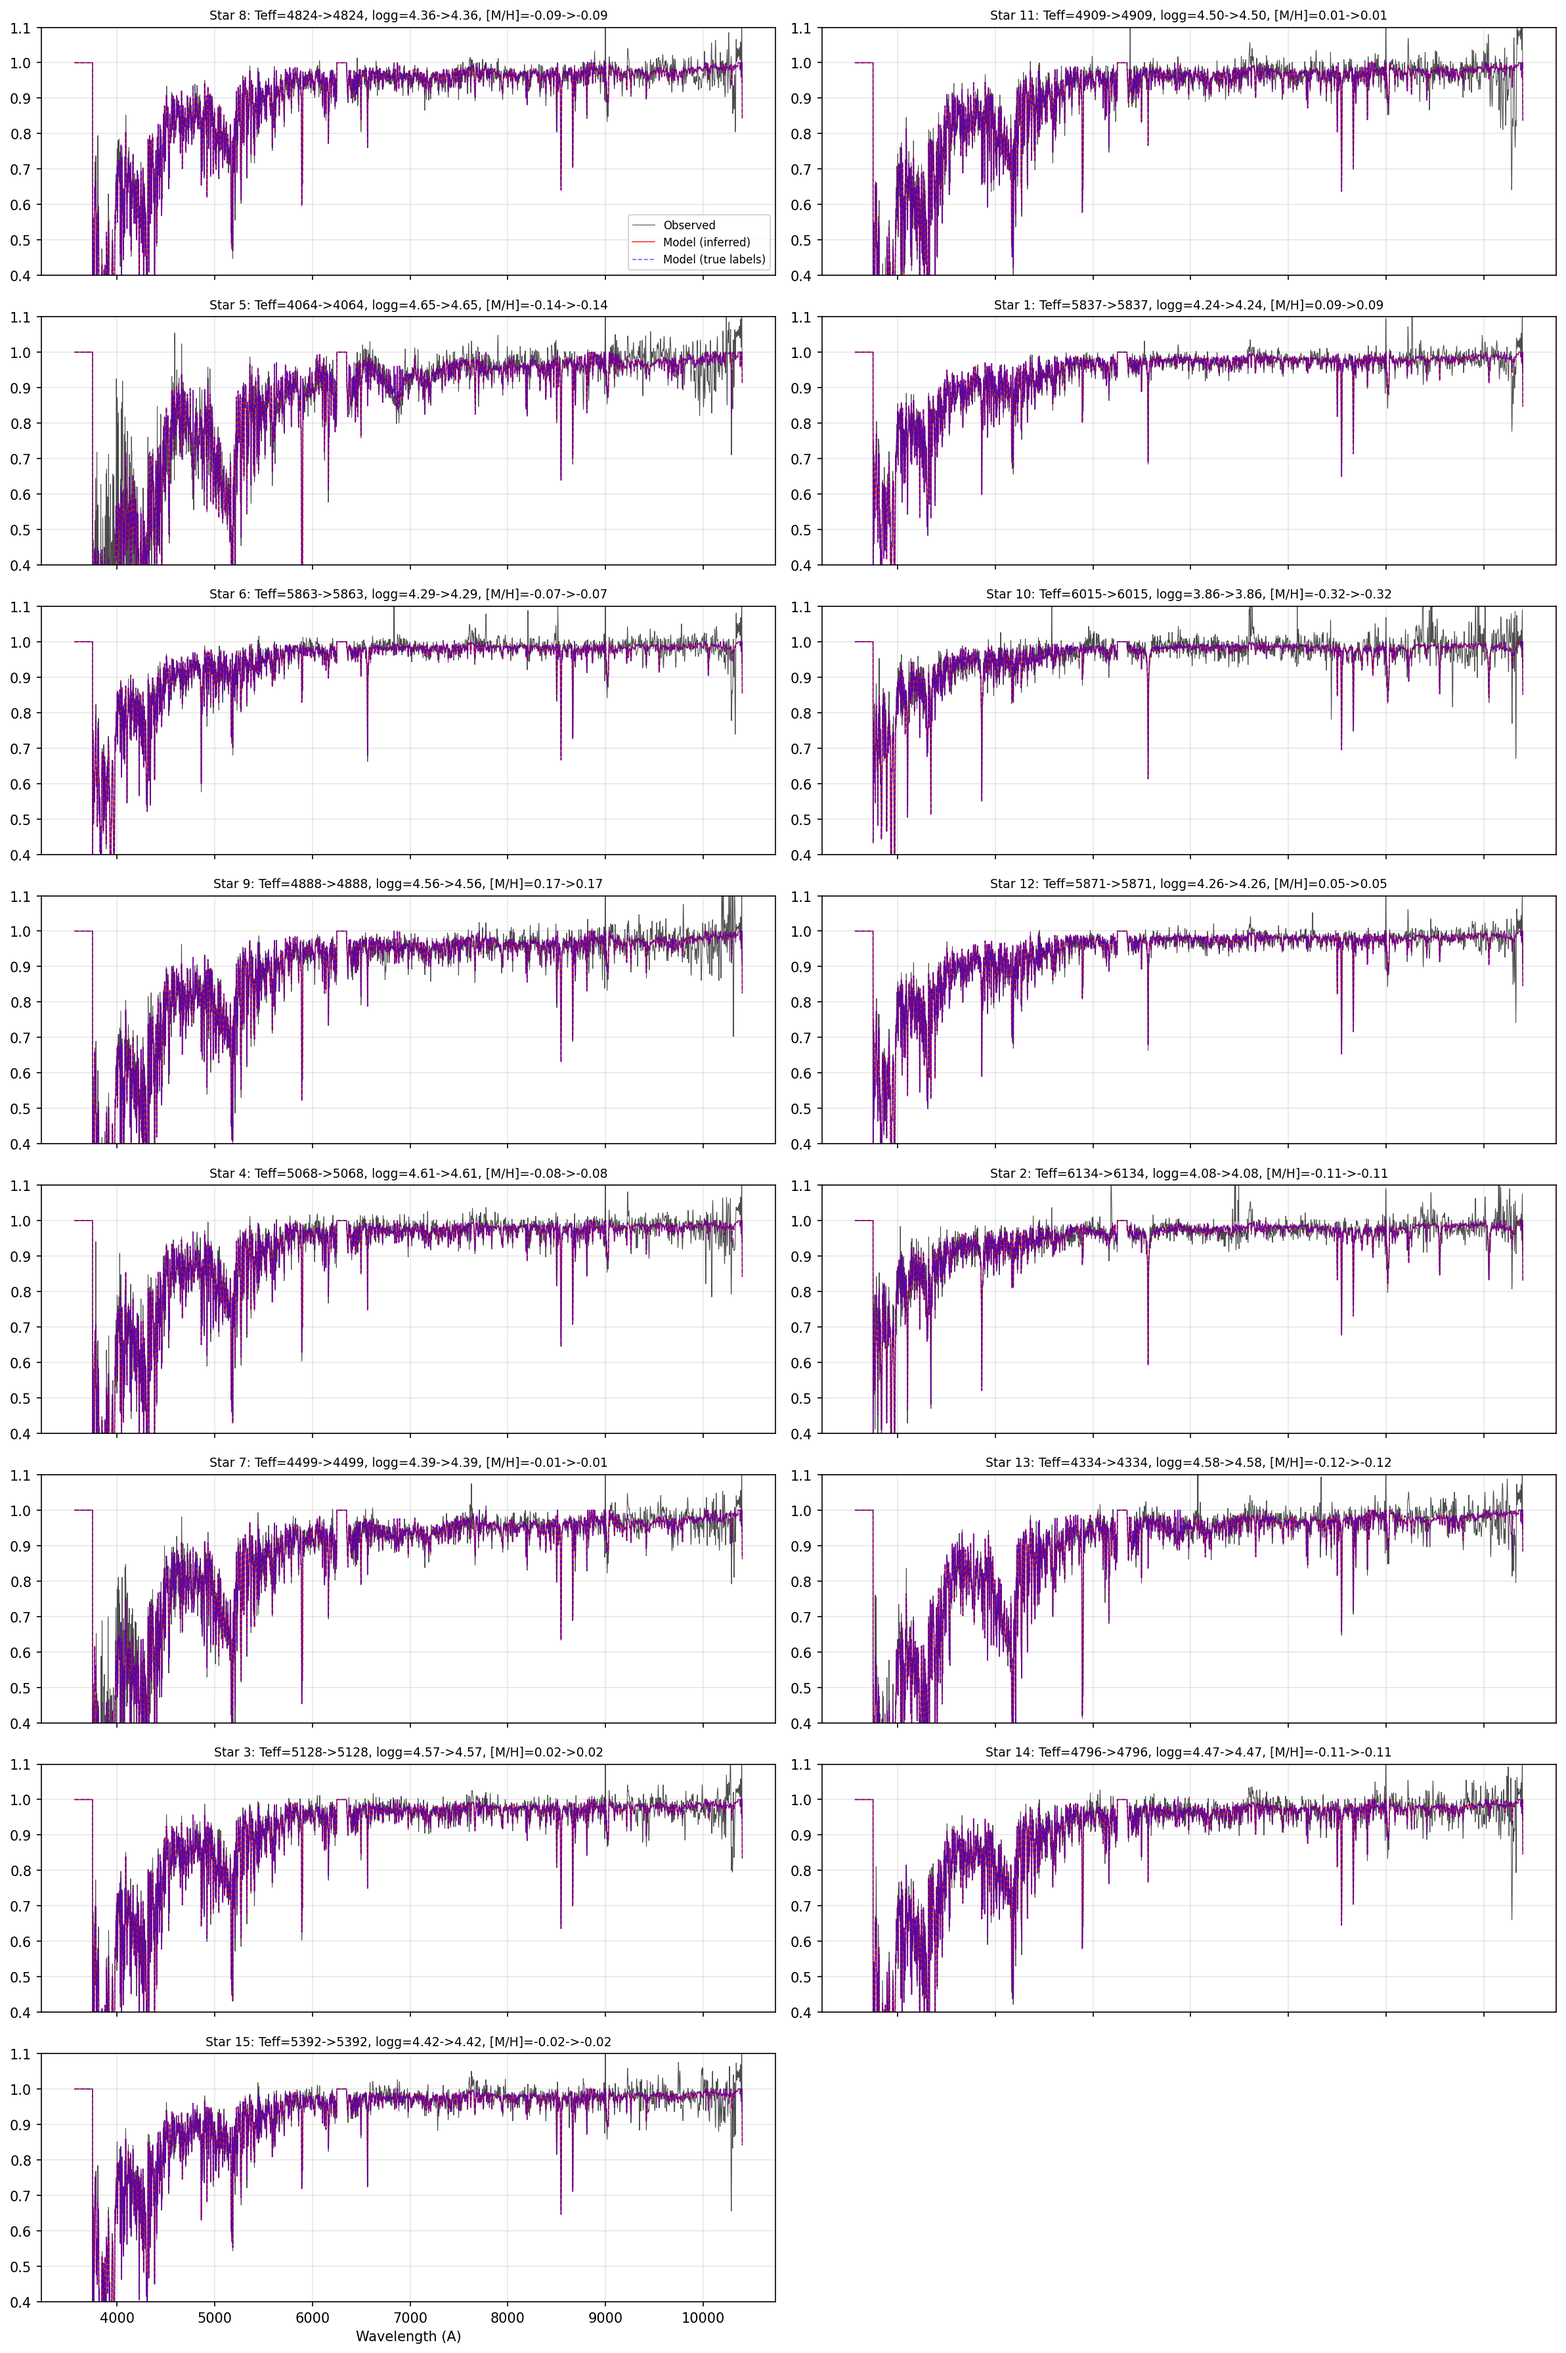
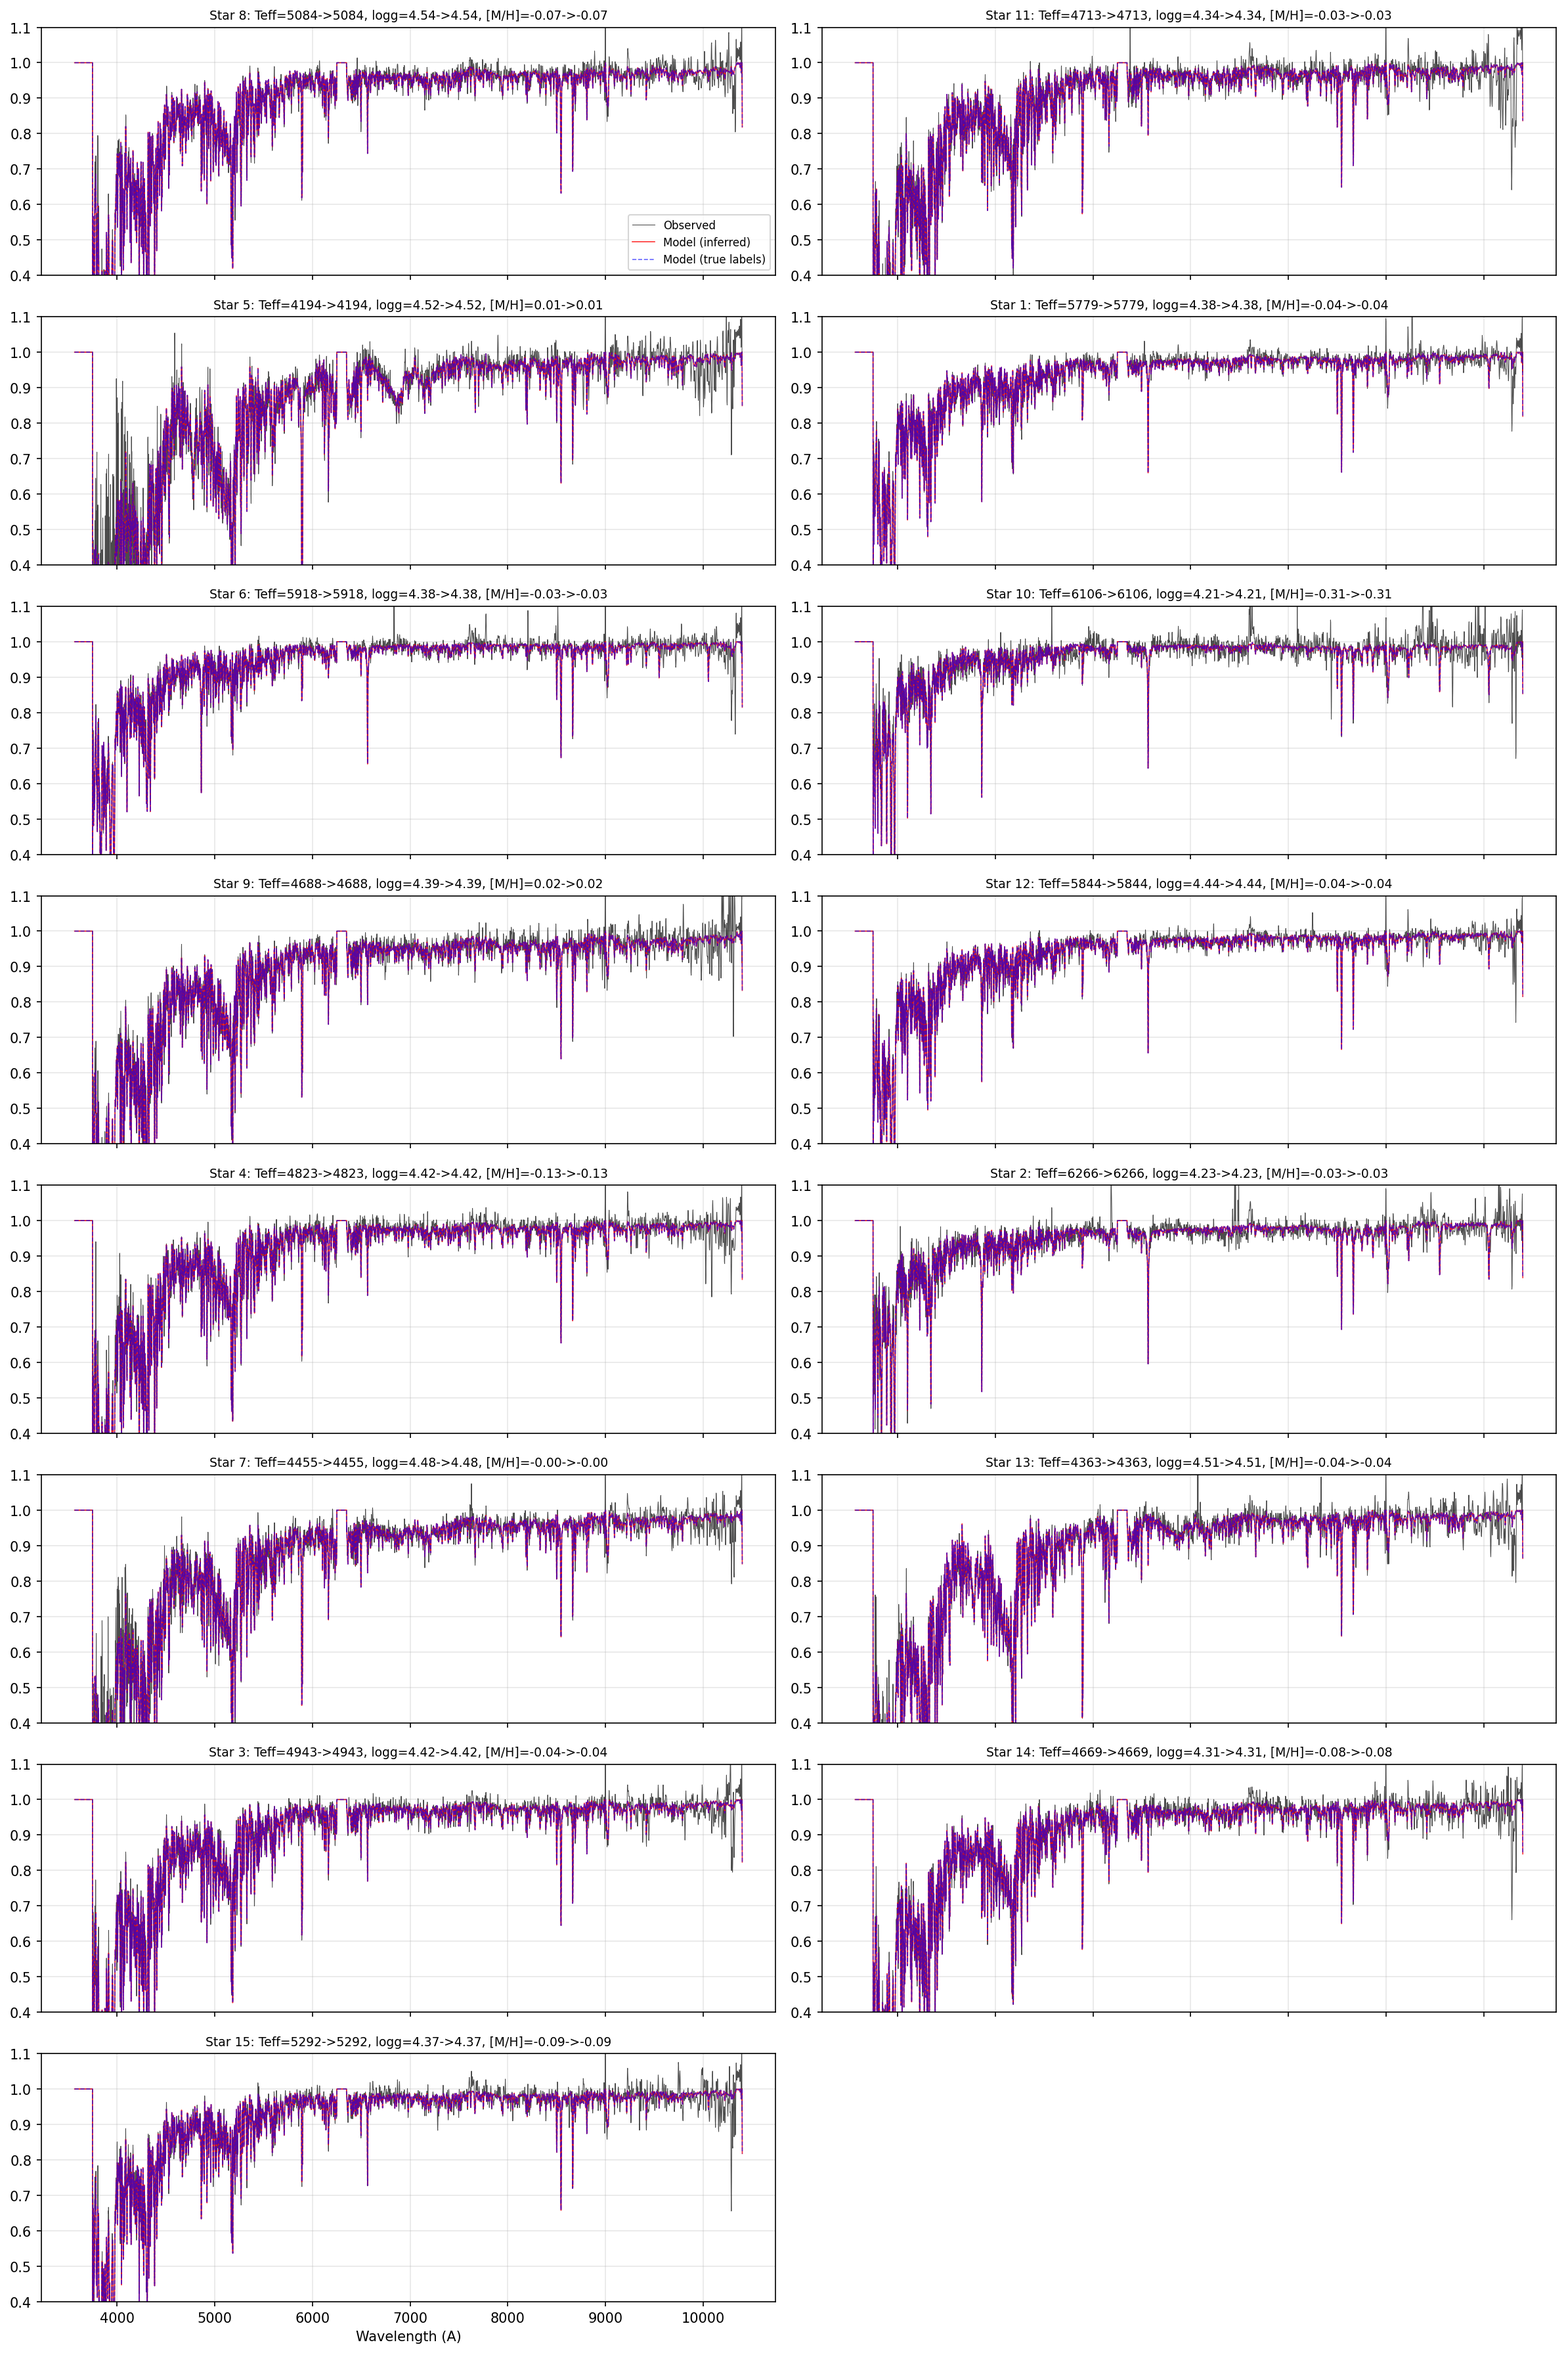
run on clusters

diff --git a/predict_clusters.py b/predict_clusters.py
@@ -101,7 +101,7 @@ if __name__ == '__main__':
     learning_rate = 0.01 # 0.1 is too aggressive
     print_every = 1000
 
-    convert_alpha = True
+    convert_alpha = False
     if convert_alpha:
         label_names = ['teff', 'logg', 'm_h', 'alpha_h']
         save_dir = 'nmf_joint_results_with_scatter_K32'
